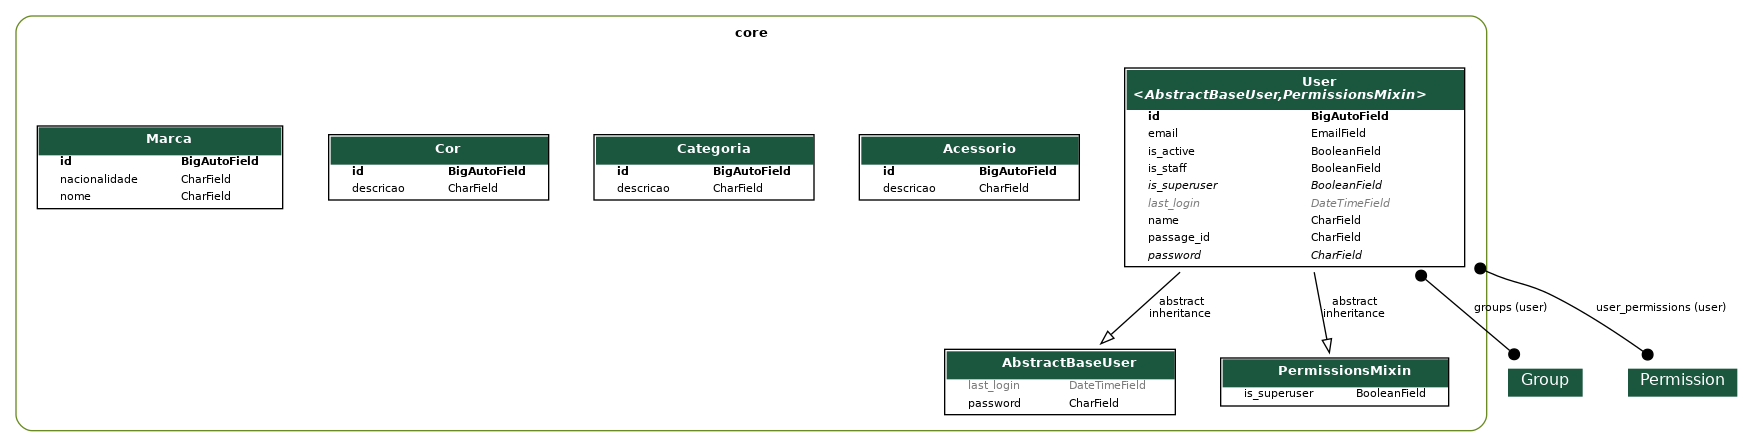
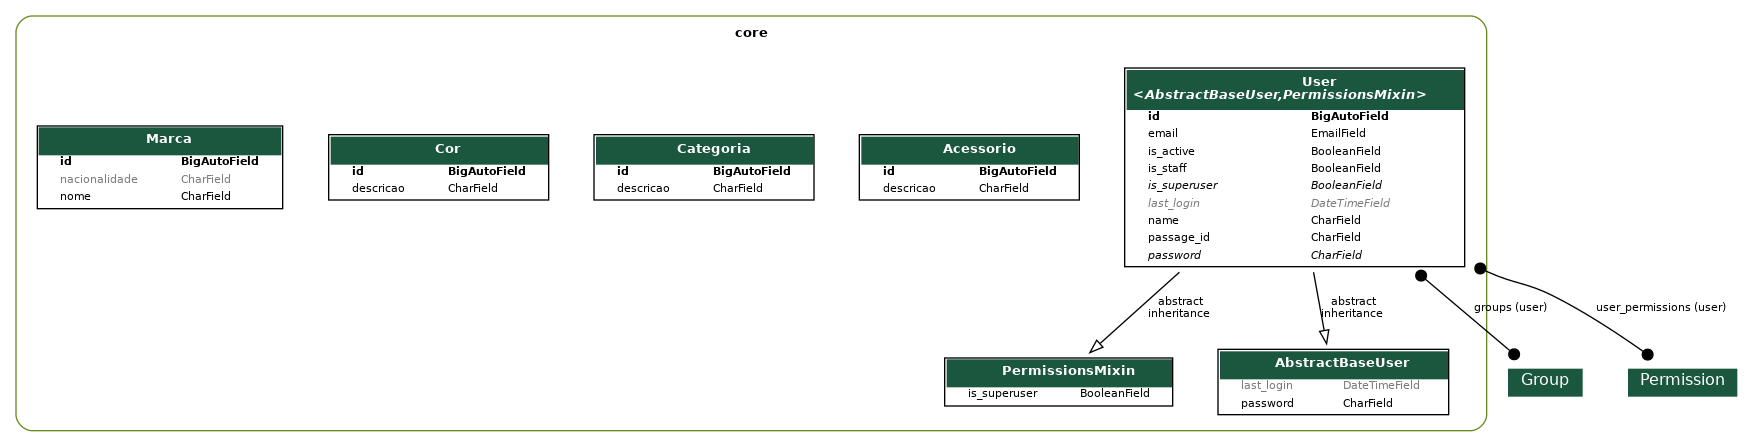
Alteração na obrigatoriedade do campo nacionalidade de models/marca.py

Changed region(s): [[0.5237, 0.6689, 0.8317, 0.9306], [0.6469, 0.6689, 0.7085, 0.7271], [0.0308, 0.3781, 0.1232, 0.4072]]

diff --git a/core/migrations/0009_alter_marca_nacionalidade.py b/core/migrations/0009_alter_marca_nacionalidade.py
@@ -1,0 +1,18 @@
+# Generated by Django 5.0.6 on 2024-08-01 11:51
+
+from django.db import migrations, models
+
+
+class Migration(migrations.Migration):
+
+    dependencies = [
+        ("core", "0008_rename_nome_cor_descricao"),
+    ]
+
+    operations = [
+        migrations.AlterField(
+            model_name="marca",
+            name="nacionalidade",
+            field=models.CharField(blank=True, max_length=50, null=True),
+        ),
+    ]

diff --git a/core/models/marca.py b/core/models/marca.py
@@ -2,7 +2,7 @@ from django.db import models
 
 class Marca(models.Model):
     nome = models.CharField(max_length=50)
-    nacionalidade = models.CharField(max_length=50)
+    nacionalidade = models.CharField(max_length=50, blank=True, null=True)
 
     def __str__(self):
         return f'{self.nome.upper()} ({self.id})'
